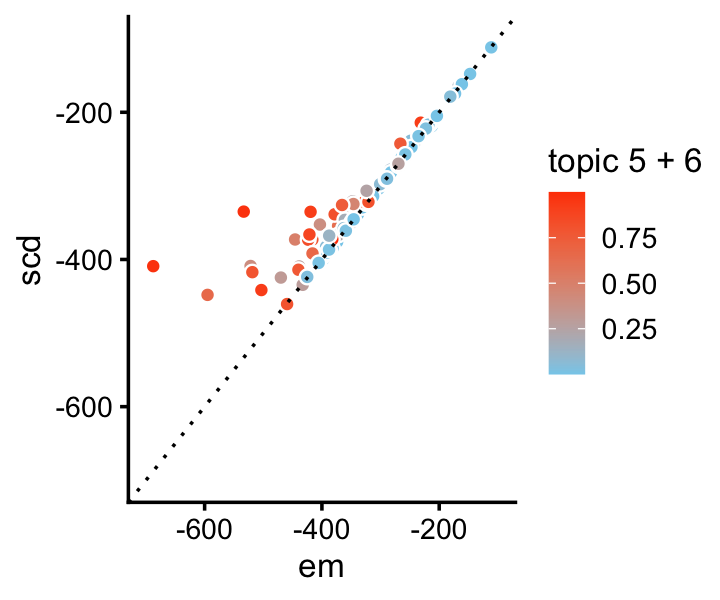
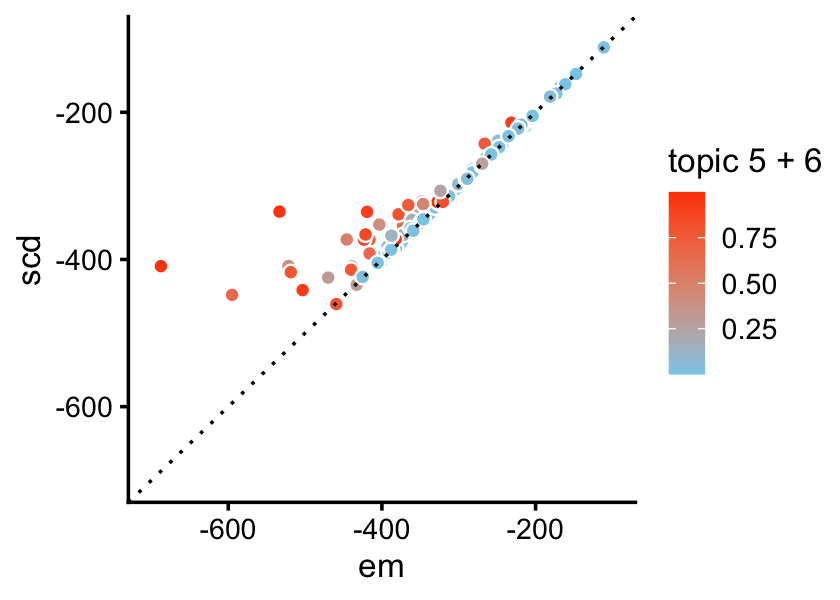
Build site.

diff --git a/docs/smallsim.html b/docs/smallsim.html
@@ -414,16 +414,16 @@ This reproducible <a href="http://rmarkdown.rstudio.com">R Markdown</a> analysis
 <div class="panel panel-default">
 <div class="panel-heading">
 <p class="panel-title">
-<a data-toggle="collapse" data-parent="#workflowr-checks" href="#strongRepositoryversionstrongahrefhttpsgithubcomstephenslabfastTopicsexperimentstreec4b4f750a0c57db7ca4bc48f3a1b0ea7b7fda14ctargetblankc4b4f75a"> <span class="glyphicon glyphicon-ok text-success" aria-hidden="true"></span> <strong>Repository version:</strong> <a href="https://github.com/stephenslab/fastTopics-experiments/tree/c4b4f750a0c57db7ca4bc48f3a1b0ea7b7fda14c" target="_blank">c4b4f75</a> </a>
+<a data-toggle="collapse" data-parent="#workflowr-checks" href="#strongRepositoryversionstrongahrefhttpsgithubcomstephenslabfastTopicsexperimentstree858b366f47fe17f7c3433a79824df368539d1daftargetblank858b366a"> <span class="glyphicon glyphicon-ok text-success" aria-hidden="true"></span> <strong>Repository version:</strong> <a href="https://github.com/stephenslab/fastTopics-experiments/tree/858b366f47fe17f7c3433a79824df368539d1daf" target="_blank">858b366</a> </a>
 </p>
 </div>
[2 lines of base64/hex data omitted]
 <div class="panel-body">
 <p>
 Great! You are using Git for version control. Tracking code development and connecting the code version to the results is critical for reproducibility.
 </p>
 <p>
-The results in this page were generated with repository version <a href="https://github.com/stephenslab/fastTopics-experiments/tree/c4b4f750a0c57db7ca4bc48f3a1b0ea7b7fda14c" target="_blank">c4b4f75</a>. See the <em>Past versions</em> tab to see a history of the changes made to the R Markdown and HTML files.
+The results in this page were generated with repository version <a href="https://github.com/stephenslab/fastTopics-experiments/tree/858b366f47fe17f7c3433a79824df368539d1daf" target="_blank">858b366</a>. See the <em>Past versions</em> tab to see a history of the changes made to the R Markdown and HTML files.
 </p>
 <p>
 Note that you need to be careful to ensure that all relevant files for the analysis have been committed to Git prior to generating the results (you can use <code>wflow_publish</code> or <code>wflow_git_commit</code>). workflowr only checks the R Markdown file, but you know if there are other scripts or data files that it depends on. Below is the status of the Git repository when the results were generated:
@@ -472,6 +472,40 @@ Message
 </tr>
 </thead>
 <tbody>
+<tr>
+<td>
+Rmd
+</td>
+<td>
+<a href="https://github.com/stephenslab/fastTopics-experiments/blob/858b366f47fe17f7c3433a79824df368539d1daf/analysis/smallsim.Rmd" target="_blank">858b366</a>
+</td>
+<td>
+Peter Carbonetto
+</td>
+<td>
+2021-03-08
+</td>
+<td>
+workflowr::wflow_publish(“smallsim.Rmd”)
+</td>
+</tr>
+<tr>
+<td>
+html
+</td>
+<td>
+<a href="https://rawcdn.githack.com/stephenslab/fastTopics-experiments/87ef32eb7cb850c0cdd260e7517573ae0599b69e/docs/smallsim.html" target="_blank">87ef32e</a>
+</td>
+<td>
+Peter Carbonetto
+</td>
+<td>
+2021-03-08
+</td>
+<td>
+Added some more plots to smallsim demo.
+</td>
+</tr>
 <tr>
 <td>
 Rmd
@@ -1169,7 +1203,44 @@ ggplot(pdat,aes(x = x,y = y)) +
   geom_abline(intercept = 0,slope = 1,color = &quot;skyblue&quot;,linetype = &quot;dotted&quot;) +
   labs(x = &quot;em&quot;,y = &quot;scd&quot;) +
   theme_cowplot(font_size = 10)</code></pre>
-<p><img src="figure/smallsim.Rmd/loadings-scatterplot-1-1.png" width="300" style="display: block; margin: auto;" /></p>
+<p><img src="figure/smallsim.Rmd/loadings-scatterplot-1-1.png" width="330" style="display: block; margin: auto;" /></p>
+<p>
+<button type="button" class="btn btn-default btn-xs btn-workflowr btn-workflowr-fig" data-toggle="collapse" data-target="#fig-loadings-scatterplot-1-1">
+Past versions of loadings-scatterplot-1-1.png
+</button>
+</p>
+<div id="fig-loadings-scatterplot-1-1" class="collapse">
+<div class="table-responsive">
+<table class="table table-condensed table-hover">
+<thead>
+<tr>
+<th>
+Version
+</th>
+<th>
+Author
+</th>
+<th>
+Date
+</th>
+</tr>
+</thead>
+<tbody>
+<tr>
+<td>
+<a href="https://github.com/stephenslab/fastTopics-experiments/blob/87ef32eb7cb850c0cdd260e7517573ae0599b69e/docs/figure/smallsim.Rmd/loadings-scatterplot-1-1.png" target="_blank">87ef32e</a>
+</td>
+<td>
+Peter Carbonetto
+</td>
+<td>
+2021-03-08
+</td>
+</tr>
+</tbody>
+</table>
+</div>
+</div>
 <p>Next we will see an example in which EM updates fail to make reasonable progress.</p>
 </div>
 <div id="correlated-topics-scenario" class="section level2">
@@ -1386,8 +1457,45 @@ ggplot(pdat,aes(x = x,y = y)) +
   geom_abline(intercept = 0,slope = 1,color = &quot;skyblue&quot;,linetype = &quot;dotted&quot;) +
   labs(x = &quot;em&quot;,y = &quot;scd&quot;) +
   theme_cowplot(font_size = 10)</code></pre>
-<p><img src="figure/smallsim.Rmd/loadings-scatterplot-2-1.png" width="300" style="display: block; margin: auto;" /></p>
-<p>Most of the samples contributing to the large difference in likehood are samples generated from combinations of topics 5 and 6 (the X and Y axes show the log-likelihoods):</p>
+<p><img src="figure/smallsim.Rmd/loadings-scatterplot-2-1.png" width="330" style="display: block; margin: auto;" /></p>
+<p>
+<button type="button" class="btn btn-default btn-xs btn-workflowr btn-workflowr-fig" data-toggle="collapse" data-target="#fig-loadings-scatterplot-2-1">
+Past versions of loadings-scatterplot-2-1.png
+</button>
+</p>
+<div id="fig-loadings-scatterplot-2-1" class="collapse">
+<div class="table-responsive">
+<table class="table table-condensed table-hover">
+<thead>
+<tr>
+<th>
+Version
+</th>
+<th>
+Author
+</th>
+<th>
+Date
+</th>
+</tr>
+</thead>
+<tbody>
+<tr>
+<td>
+<a href="https://github.com/stephenslab/fastTopics-experiments/blob/87ef32eb7cb850c0cdd260e7517573ae0599b69e/docs/figure/smallsim.Rmd/loadings-scatterplot-2-1.png" target="_blank">87ef32e</a>
+</td>
+<td>
+Peter Carbonetto
+</td>
+<td>
+2021-03-08
+</td>
+</tr>
+</tbody>
+</table>
+</div>
+</div>
+<p>Most of the samples contributing to the large difference in likehood are samples generated from combinations of topics 5 and 6 (the X and Y axes in this scatterplot show the per-sample log-likelihoods):</p>
 <pre class="r"><code>pdat &lt;- data.frame(x = loglik_multinom_topic_model(X,fit1),
                    y = loglik_multinom_topic_model(X,fit2))
 ggplot(pdat,aes(x = x,y = y,fill = L[,5] + L[,6])) +
@@ -1398,7 +1506,44 @@ ggplot(pdat,aes(x = x,y = y,fill = L[,5] + L[,6])) +
   ylim(-700,-100) +
   labs(x = &quot;em&quot;,y = &quot;scd&quot;,fill = &quot;topic 5 + 6&quot;) +
   theme_cowplot(font_size = 10)</code></pre>
-<p><img src="figure/smallsim.Rmd/likelihood-scatterplot-1.png" width="360" style="display: block; margin: auto;" /></p>
+<p><img src="figure/smallsim.Rmd/likelihood-scatterplot-1.png" width="420" style="display: block; margin: auto;" /></p>
+<p>
+<button type="button" class="btn btn-default btn-xs btn-workflowr btn-workflowr-fig" data-toggle="collapse" data-target="#fig-likelihood-scatterplot-1">
+Past versions of likelihood-scatterplot-1.png
+</button>
+</p>
+<div id="fig-likelihood-scatterplot-1" class="collapse">
+<div class="table-responsive">
+<table class="table table-condensed table-hover">
+<thead>
+<tr>
+<th>
+Version
+</th>
+<th>
+Author
+</th>
+<th>
+Date
+</th>
+</tr>
+</thead>
+<tbody>
+<tr>
+<td>
+<a href="https://github.com/stephenslab/fastTopics-experiments/blob/87ef32eb7cb850c0cdd260e7517573ae0599b69e/docs/figure/smallsim.Rmd/likelihood-scatterplot-1.png" target="_blank">87ef32e</a>
+</td>
+<td>
+Peter Carbonetto
+</td>
+<td>
+2021-03-08
+</td>
+</tr>
+</tbody>
+</table>
+</div>
+</div>
 <p>These results suggest that the EM algorithm may perform poorly in settings where the topics are correlated, even if the correlations are quite modest.</p>
 <br>
 <p>
